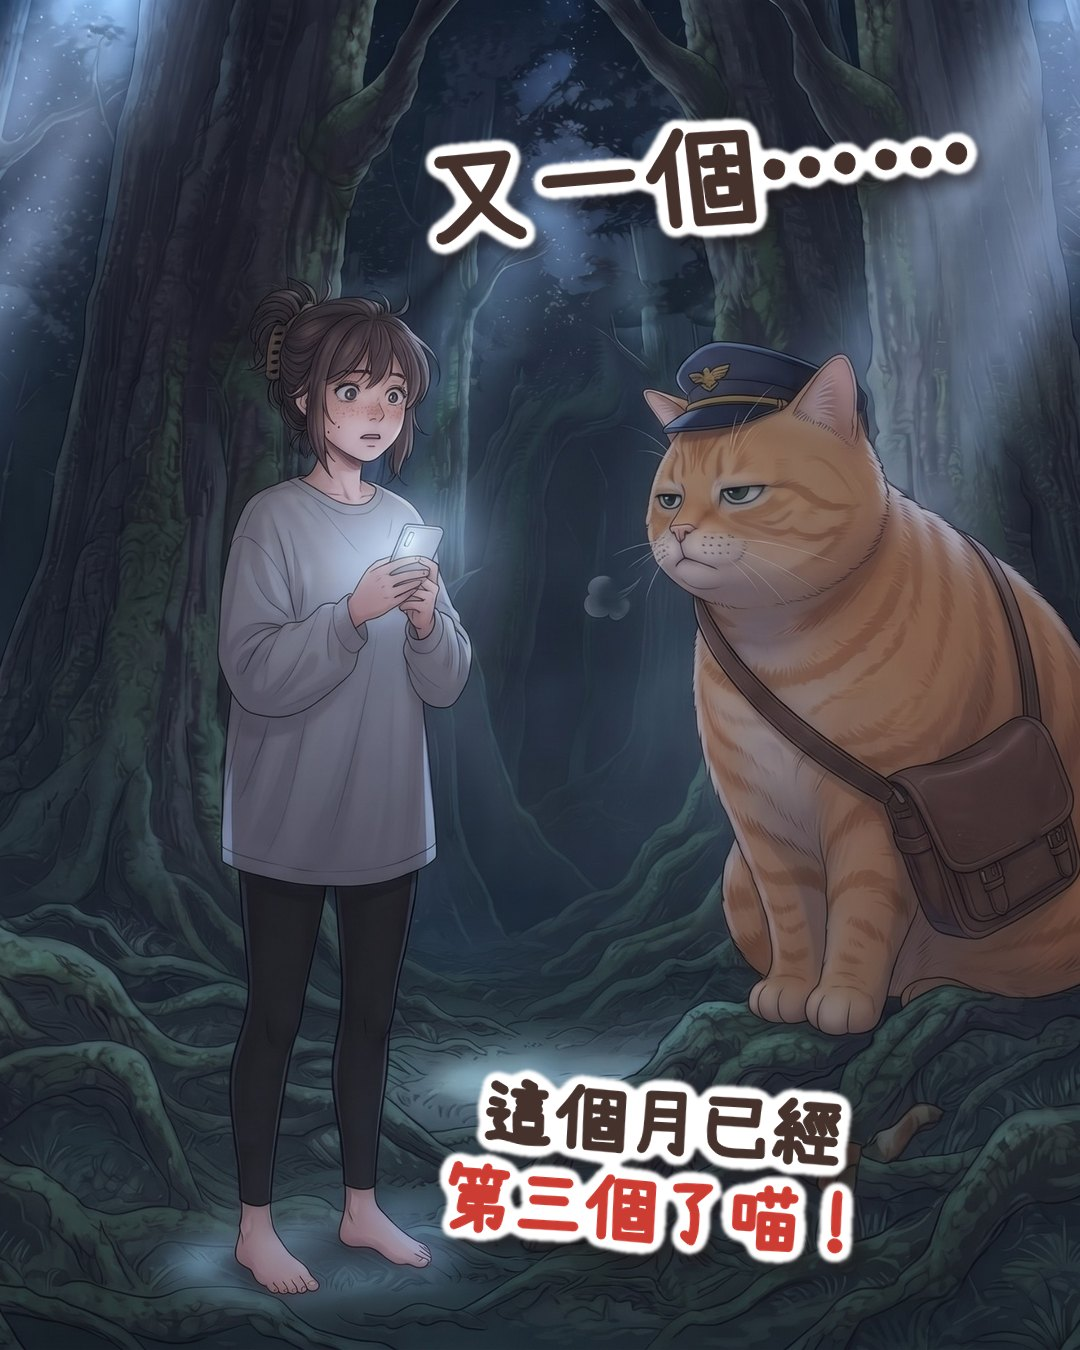
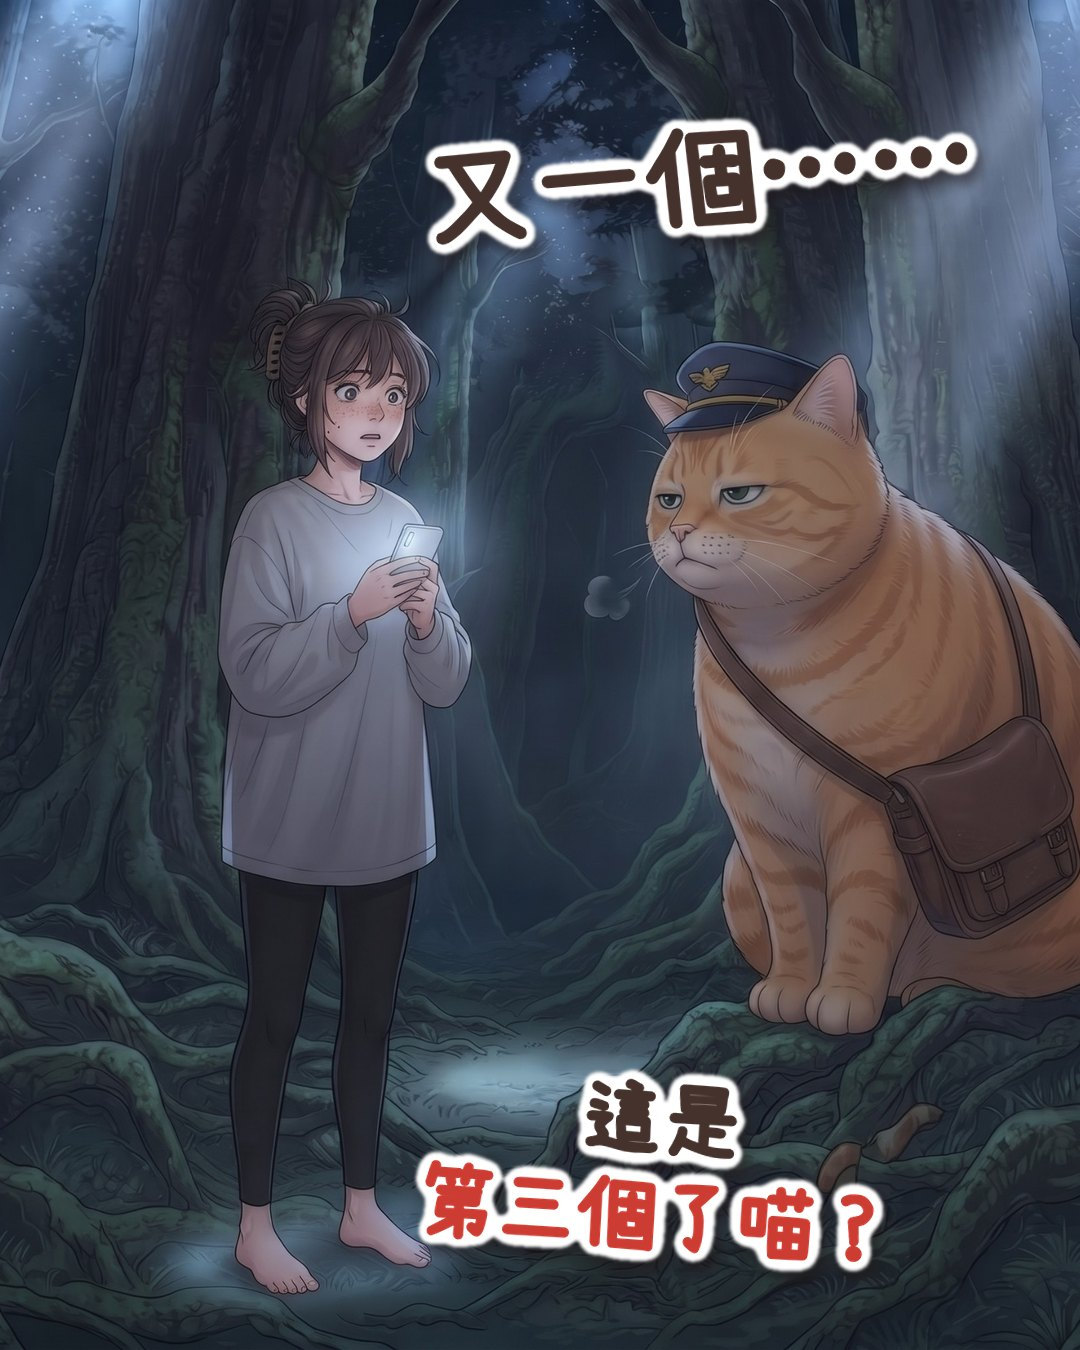
Chapter 1: cat's line becomes 'is this the third one?'
Claude-Session: https://claude.ai/code/session_015Mqcw1CUwCrp5H32bc8ZgS

Changed region(s): [[0.3667, 0.7778, 0.825, 0.9644]]

diff --git a/story/01.html b/story/01.html
@@ -43,7 +43,7 @@
     <p>「喵？」</p>
     <img class="cat" src="../assets/sprites/guide.png" alt="戴郵差帽的橘貓">
     <p>橘色的，胖胖的，頭上還戴著一頂郵差帽。牠盯著這身睡衣看了半天，嘆了一口氣。</p>
-    <p>「又一個。」牠說，「這個月已經第三個了喵。」</p>
+    <p>「又一個……」牠說，「這是第三個了喵？」</p>
   </article>
   <p class="next-note">第二話準備中。</p>
   <nav class="nav">
